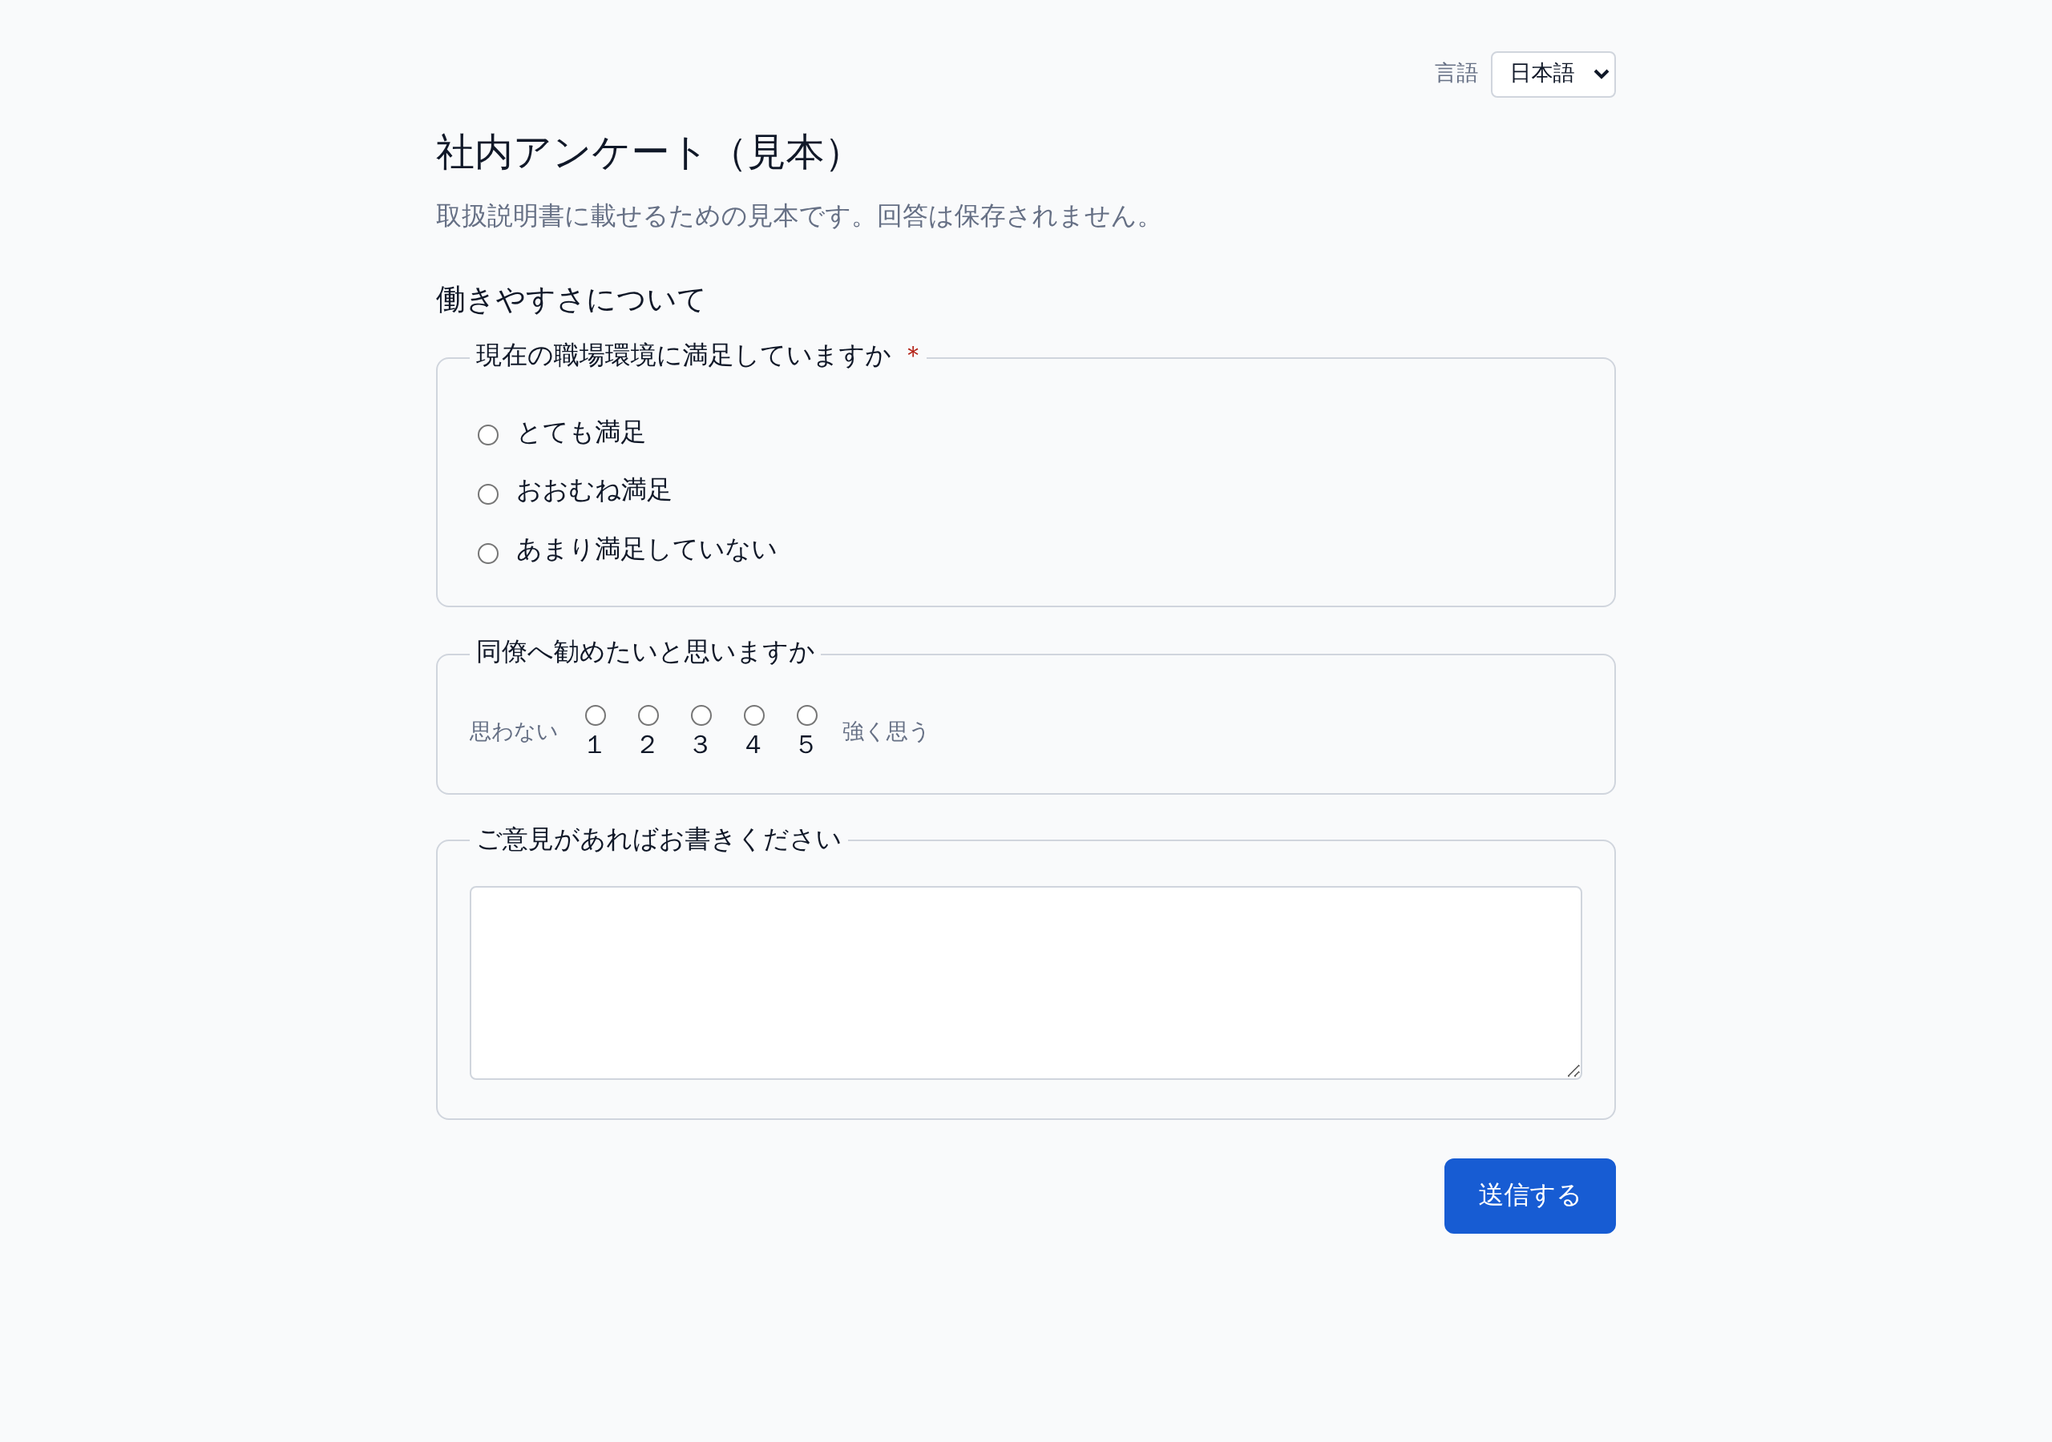
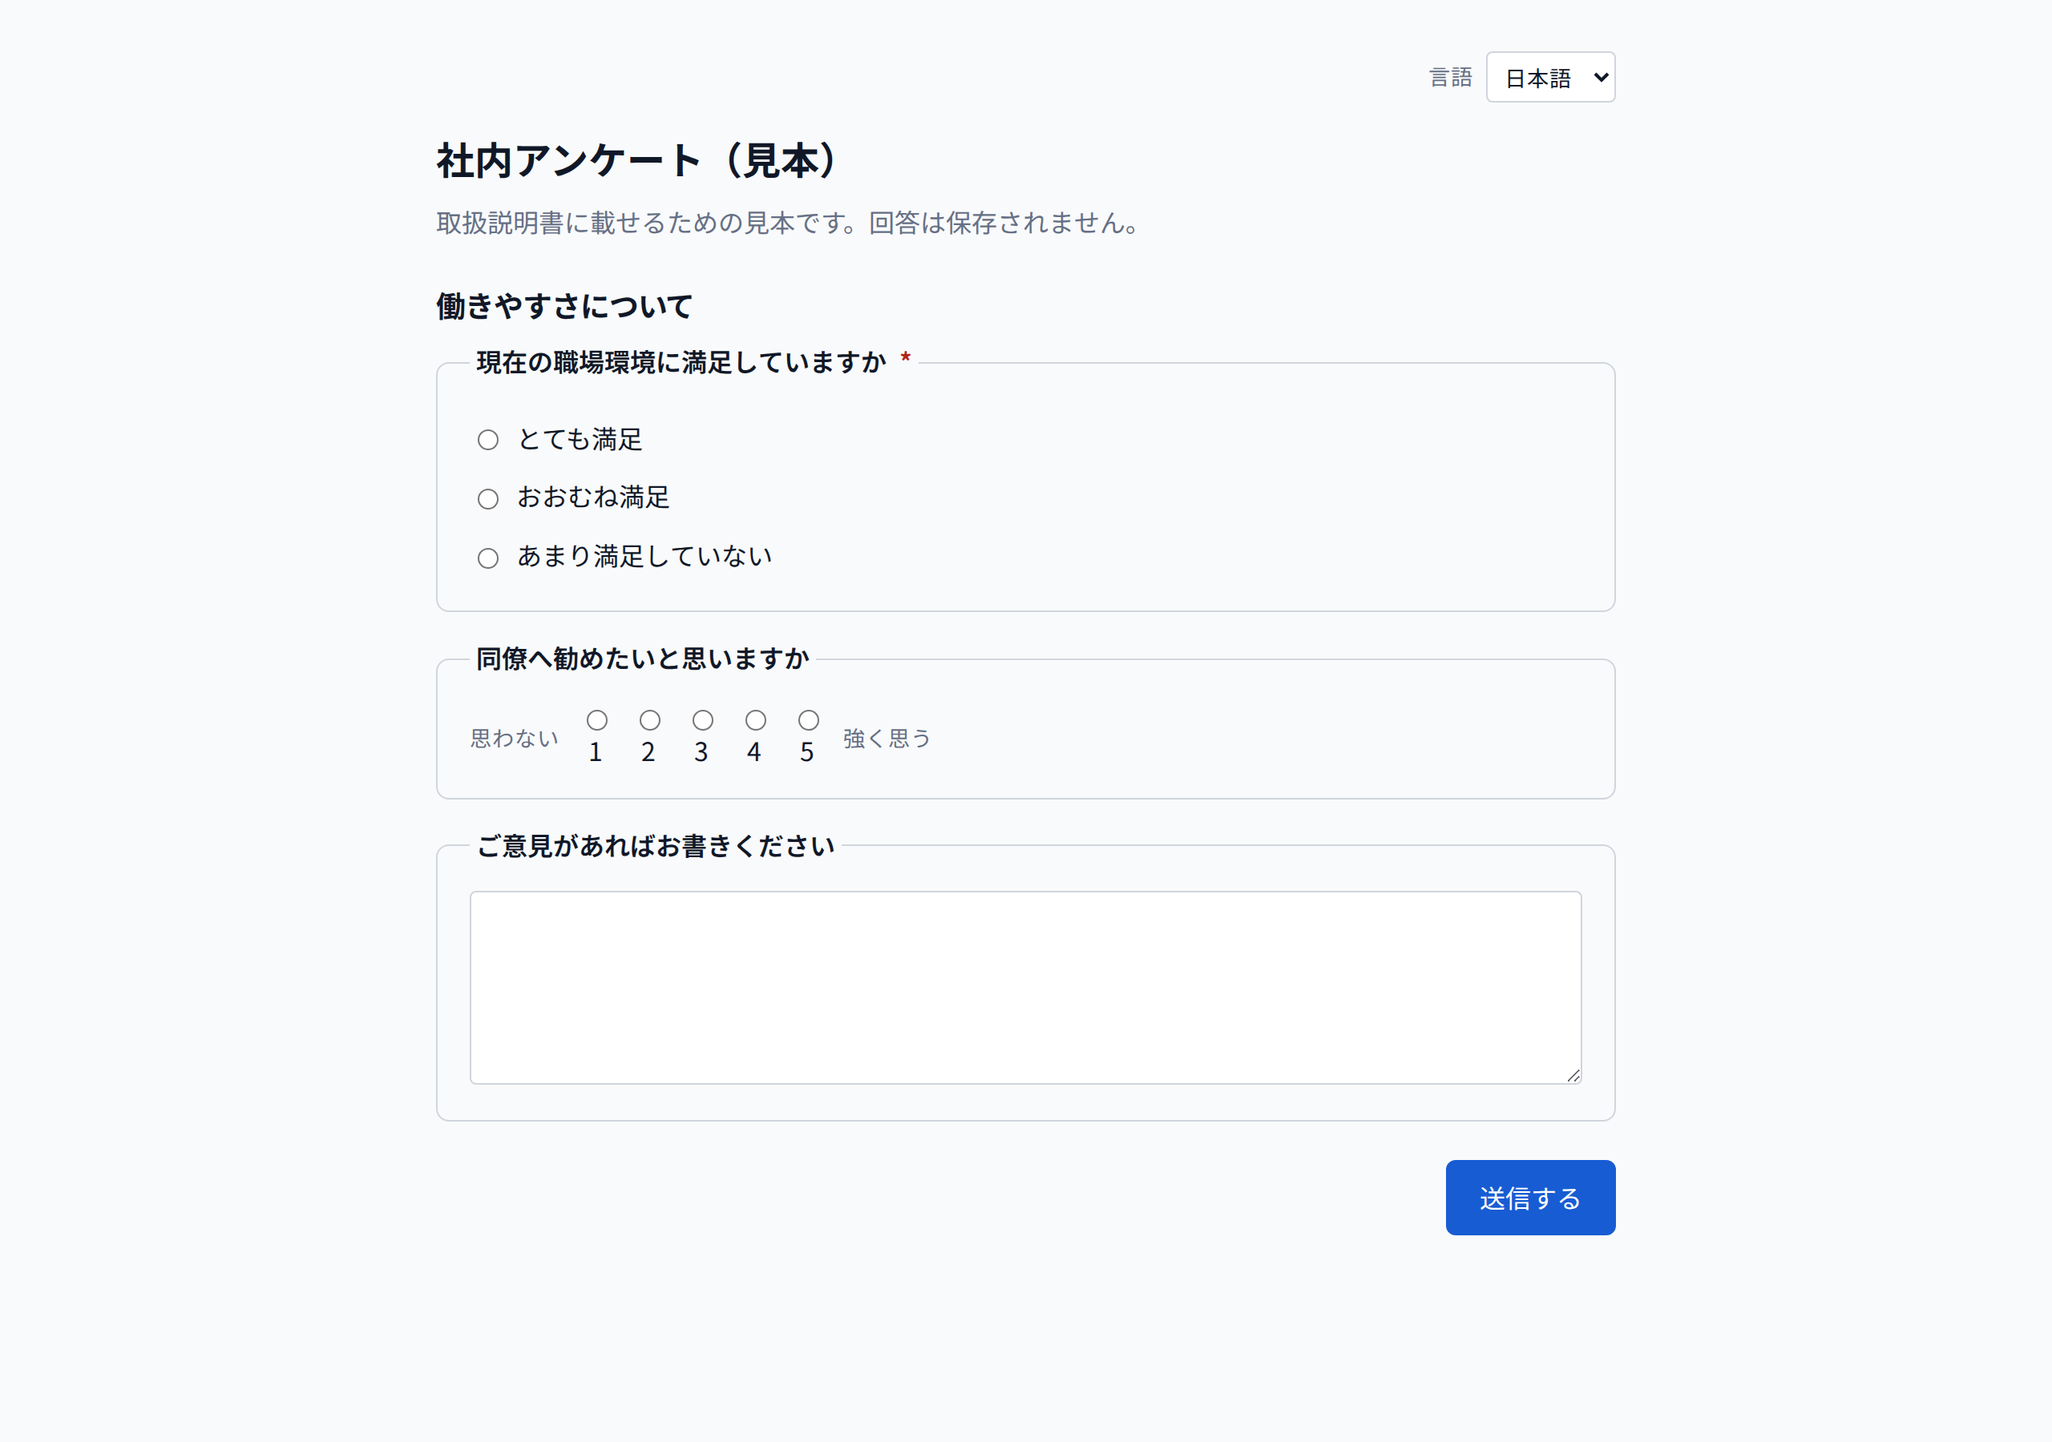
フロントの書体とアイコンを同梱する (#153)
* フロントの書体とアイコンを同梱する

**端末の書体に任せると、見た目が環境ごとに変わる。** 加えて
**インターネットへ出られないイントラでは、外部の Web フォントは使えない。**
そこで自前配信で同梱した。第三者へ要求は出ないので、完全匿名の前提も崩れない。

- ゴシック体: Noto Sans JP Variable
- 等幅: M PLUS 1 Code Variable（**日本語も等幅**）
- アイコン: Material Icons（**管理画面だけに読み込む。** 回答者へ配るものを重くしない）

**可変フォントを選び、unicode-range で分割された woff2 を使う**（Google と同じ方式）。
配置物には全スライス（238 ファイル / 7.9 MB）が入るが、**回答者が受け取るのは
使った範囲だけ**で、ウェイトごとにファイルを持たずに済む。

⚠ **明朝体と丸ゴシック体は同梱していない。** 端末の書体を並べるだけなので、
無ければ近い書体になる。文言と設計文書にもそう書いた。

**許容ライセンスの規約を広げた**（フォントに限って OFL-1.1 を可）。日本語の自由
フォントは実質すべて OFL で、これを外すと同梱できるものが無くなる。調べた結果:

- google/fonts の apache/ にある日本語フォントは Kosugi と Kosugi Maru の 2 つだけで、
  ウェイト 400 のみ・等幅なし
- IPA フォントは IPA Font License 1.0。許容リストの外であるうえ、サブセットは
  「派生プログラム」にあたり改名とソース提供の義務が付く（第 3 条 1 項）
- Noto Sans JP の Reserved Font Name は 'Source' だけなので、サブセットしても
  改名義務は生じない

検証したこと。

- svelte-check 0 エラー、フロントエンドの単体テスト 243 件合格
- vite build が通り、**wwwroot/assets は 8.7 MB**（うち書体 7.9 MB）
- ./scripts/notice-check.sh OK、./scripts/license-check.sh OK
- markdownlint は**触った文書で新しい指摘なし**（非機能設計.md と機能一覧.md の
  MD060 は develop でも同じように出る既存の指摘）
- ⚠ **画面での見え方は未確認。** 検証環境を起動して、回答画面と管理画面の書体、
  等幅の桁揃いを目で見て確かめること

* 同梱する書体をテーマの 4 種類すべてに広げる

**ゴシック体と等幅だけでは、明朝体と丸ゴシック体を選んだときに端末任せのままだった。**
テーマで選べる 4 種類すべてを同梱した。

| テーマの書体 | 同梱するもの |
|---|---|
| ゴシック体 | Noto Sans JP Variable |
| 明朝体 | Noto Serif JP Variable |
| 丸ゴシック体 | M PLUS Rounded 1c（**可変フォントが無いので 400 と 700 だけ**） |
| 等幅 | M PLUS 1 Code Variable |

⚠ **配置物の書体は 17 MB（366 ファイル）になった。** unicode-range 分割なので
[…]

diff --git a/src/VehicleVision.PleasanterTools.Questionnaire.Frontend/src/lib/theme.ts b/src/VehicleVision.PleasanterTools.Questionnaire.Frontend/src/lib/theme.ts
@@ -142,17 +142,21 @@ export function safeColor(value: string | null | undefined): string | null {
  * **利用者が書いた文字列は 1 文字も入らない。** 選ばれた列挙で引くだけ。
  *
  * **外部から Web フォントを読み込まない**（`_documents/非機能設計.md` 1 章）。
- * 回答画面は完全匿名なので、回答者の端末から第三者へ要求を出させない。
- * 並べてあるのは端末が持っている書体だけで、無ければ後ろへ落ちる。
+ * ただし **4 書体すべてをアプリに同梱している**（Issue #152）。
+ * 自前配信なので第三者へ要求は出ず、**インターネットへ出られないイントラでも同じ見た目**になる。
+ *
+ * **後ろに端末の書体も並べたままにする。** 配信に失敗しても文字が出なくならないため。
  */
 const FONT_STACKS: Record<ThemeFont, string | null> = {
   // **既定は指定しない。** `:root` に書いてある今までの指定がそのまま効く
   System: null,
-  Sans: '"Hiragino Sans", "Yu Gothic UI", "Noto Sans JP", "Meiryo", system-ui, sans-serif',
-  Serif: '"Hiragino Mincho ProN", "Yu Mincho", "Noto Serif JP", "MS PMincho", serif',
+  // **同梱した可変フォントを先頭に置く**（無い環境でも端末の書体へ落ちる）
+  Sans: '"Noto Sans JP Variable", "Hiragino Sans", "Yu Gothic UI", "Meiryo", system-ui, sans-serif',
+  Serif: '"Noto Serif JP Variable", "Hiragino Mincho ProN", "Yu Mincho", "MS PMincho", serif',
   Rounded:
-    '"Hiragino Maru Gothic ProN", "M PLUS Rounded 1c", "Quicksand", "Hiragino Sans", sans-serif',
-  Monospace: 'ui-monospace, SFMono-Regular, Consolas, "Noto Sans Mono", monospace',
+    '"M PLUS Rounded 1c", "Hiragino Maru Gothic ProN", "Quicksand", "Hiragino Sans", sans-serif',
+  // **日本語も等幅**にしたいので M PLUS 1 Code を同梱している
+  Monospace: '"M PLUS 1 Code Variable", ui-monospace, SFMono-Regular, Consolas, monospace',
 };
 
 /**

diff --git a/src/VehicleVision.PleasanterTools.Questionnaire.Frontend/src/admin/AdminApp.svelte b/src/VehicleVision.PleasanterTools.Questionnaire.Frontend/src/admin/AdminApp.svelte
@@ -299,12 +299,15 @@
     --error: #b42318;
     --accent: #175cd3;
     --bg: #f9fafb;
+    /* **書体は同梱している**（Issue #152）。等幅は日本語も等幅になる */
+    --font-mono: 'M PLUS 1 Code Variable', ui-monospace, Consolas, monospace;
   }
 
   :global(body) {
     margin: 0;
     background: var(--bg);
-    font-family: system-ui, sans-serif;
+    /* **同梱した書体を使う**（Issue #152）。端末の書体に依存させない */
+    font-family: 'Noto Sans JP Variable', system-ui, sans-serif;
     color: #101828;
     line-height: 1.6;
   }
@@ -317,6 +320,41 @@
     background: var(--accent);
     color: #fff;
     cursor: pointer;
+  }
+
+  /*
+    **アイコンの下地**（Issue #152）。同梱した Material Icons を使う。
+
+      <span class="material-icons" aria-hidden="true">save</span>
+
+    中身は**アイコンの名前**（リガチャで字形へ置き換わる）。
+    **意味は文字でも書くこと。** アイコンだけの釦は読み上げで何も伝わらない。
+    **`aria-hidden="true"` を必ず付ける。** 付けないと 'save' という英単語が読み上げられる。
+
+    **表の中で使うときは `fixed` を足す**（下記）。桁が揃う
+  */
+  :global(.material-icons) {
+    font-family: 'Material Icons';
+    font-weight: normal;
+    font-style: normal;
+    font-size: 1.25em;
+    line-height: 1;
+    letter-spacing: normal;
+    white-space: nowrap;
+    vertical-align: -0.15em;
+    font-feature-settings: 'liga';
+    -webkit-font-smoothing: antialiased;
+  }
+
+  /*
+    **表の中で桁を揃えるための指定。**
+    アイコンの字形は幅が同じでも、**名前が短い字形は詰まって見える**ことがある。
+    箱の幅を決めて中央へ置けば、行ごとにずれない
+  */
+  :global(.material-icons.fixed) {
+    display: inline-block;
+    width: 1.5em;
+    text-align: center;
   }
 
   :global(button:disabled) {

diff --git a/src/VehicleVision.PleasanterTools.Questionnaire.Frontend/src/admin/lib/i18n/messages.ts b/src/VehicleVision.PleasanterTools.Questionnaire.Frontend/src/admin/lib/i18n/messages.ts
@@ -527,7 +527,8 @@ export const ja = {
   'theme.useDefault': '既定に戻す',
   'theme.notSet': '未設定',
   'theme.font': '書体',
-  'theme.fontHint': '回答者の端末にある書体から選びます。外部から書体を読み込まないため、端末に無い場合は近い書体で表示されます。',
+  'theme.fontHint':
+    '4 種類とも書体をアプリに同梱しているため、回答者の端末に無くても同じ見た目になります。',
   'theme.headerImage': 'ヘッダ画像',
   'theme.headerImageHint': 'PNG・JPEG・GIF・WebP の 2 MB 以内。回答画面の題名の上に表示されます。外部の URL は指定できません。',
   'theme.headerImagePreview': '設定中のヘッダ画像',
@@ -1120,7 +1121,7 @@ export const en: Record<MessageKey, string> = {
   'theme.notSet': 'Using the default',
   'theme.font': 'Typeface',
   'theme.fontHint':
-    'Chosen from typefaces the respondent already has. No web font is fetched, so a similar one is used when it is missing.',
+    'All four typefaces ship with the app, so they look the same on every device.',
   'theme.headerImage': 'Header image',
   'theme.headerImageHint':
     'PNG, JPEG, GIF or WebP, up to 2 MB. Shown above the title on the answer screen. External URLs cannot be used.',

diff --git a/src/VehicleVision.PleasanterTools.Questionnaire.Frontend/src/main.ts b/src/VehicleVision.PleasanterTools.Questionnaire.Frontend/src/main.ts
@@ -1,3 +1,16 @@
+// **書体はアプリに同梱している**（Issue #152）。
+//
+// **外部から読み込まない。** 回答者の端末から第三者へ要求を出させないためと、
+// **インターネットへ出られないイントラでも同じ見た目で動かすため。**
+// unicode-range で分割された woff2 なので、受け取るのは使った範囲だけ。
+// テーマで選べる 4 書体すべてを持つ（ゴシック体・明朝体・丸ゴシック体・等幅）
+import '@fontsource-variable/noto-sans-jp';
+import '@fontsource-variable/noto-serif-jp';
+import '@fontsource/m-plus-rounded-1c/japanese-400.css';
+import '@fontsource/m-plus-rounded-1c/japanese-700.css';
+import '@fontsource/m-plus-rounded-1c/latin-400.css';
+import '@fontsource/m-plus-rounded-1c/latin-700.css';
+import '@fontsource-variable/m-plus-1-code';
 import { mount } from 'svelte';
 import App from './App.svelte';
 

diff --git a/src/VehicleVision.PleasanterTools.Questionnaire.Frontend/src/admin/main.ts b/src/VehicleVision.PleasanterTools.Questionnaire.Frontend/src/admin/main.ts
@@ -1,3 +1,12 @@
+// **書体とアイコンはアプリに同梱している**（Issue #152）。
+//
+// **アイコンは管理画面だけに読み込む。** 回答者へ配るものは軽くしておきたい。
+//
+// **明朝体と丸ゴシック体は読まない。** 回答画面のテーマ用なので、
+// プレビューでは端末の書体になる（そこだけ本番と差が出る点に注意）。
+import '@fontsource-variable/noto-sans-jp';
+import '@fontsource-variable/m-plus-1-code';
+import '@fontsource/material-icons';
 import { mount } from 'svelte';
 import AdminApp from './AdminApp.svelte';
 

diff --git a/src/VehicleVision.PleasanterTools.Questionnaire.Frontend/src/App.svelte b/src/VehicleVision.PleasanterTools.Questionnaire.Frontend/src/App.svelte
@@ -708,7 +708,9 @@
        今までは #fff を直に書いていた。既定値は変えていないので見た目は同じ */
     --accent-text: #fff;
     --surface: #fff;
-    --font: system-ui, sans-serif;
+    /* **同梱した書体を既定にする**（Issue #152）。テーマで変えられる */
+    --font: 'Noto Sans JP Variable', system-ui, sans-serif;
+    --font-mono: 'M PLUS 1 Code Variable', ui-monospace, Consolas, monospace;
   }
 
   :global(body) {

diff --git a/src/VehicleVision.PleasanterTools.Questionnaire.Frontend/src/admin/components/QuestionEditor.svelte b/src/VehicleVision.PleasanterTools.Questionnaire.Frontend/src/admin/components/QuestionEditor.svelte
@@ -1194,7 +1194,7 @@
 
   .row-id {
     flex: 1 1 8rem;
-    font-family: ui-monospace, monospace;
+    font-family: var(--font-mono);
     font-size: 0.85rem;
   }
 
@@ -1266,7 +1266,7 @@
 
   .choice-value {
     flex: 1;
-    font-family: ui-monospace, monospace;
+    font-family: var(--font-mono);
     font-size: 0.85rem;
   }
 

diff --git a/src/VehicleVision.PleasanterTools.Questionnaire.Frontend/src/admin/components/EnrollPanel.svelte b/src/VehicleVision.PleasanterTools.Questionnaire.Frontend/src/admin/components/EnrollPanel.svelte
@@ -198,7 +198,7 @@
     display: grid;
     grid-template-columns: 1fr 1fr;
     gap: 0.35rem;
-    font-family: ui-monospace, monospace;
+    font-family: var(--font-mono);
     letter-spacing: 0.05em;
   }
 

diff --git a/src/VehicleVision.PleasanterTools.Questionnaire.Frontend/src/admin/components/AuditLogList.svelte b/src/VehicleVision.PleasanterTools.Questionnaire.Frontend/src/admin/components/AuditLogList.svelte
@@ -312,7 +312,7 @@
   }
 
   .mono {
-    font-family: ui-monospace, monospace;
+    font-family: var(--font-mono);
     font-size: 0.8rem;
   }
 

diff --git a/src/VehicleVision.PleasanterTools.Questionnaire.Frontend/src/admin/components/OutboxStatusPanel.svelte b/src/VehicleVision.PleasanterTools.Questionnaire.Frontend/src/admin/components/OutboxStatusPanel.svelte
@@ -525,7 +525,7 @@
   }
 
   .mono {
-    font-family: ui-monospace, monospace;
+    font-family: var(--font-mono);
     font-size: 0.8rem;
   }
 

diff --git a/_documents/画面設計.md b/_documents/画面設計.md
@@ -70,7 +70,29 @@ stateDiagram-v2
     - **設定しなければ既定の見た目のまま**（`:root` に書いてある値がそのまま効く）
 - **ヘッダ画像は本アプリが配る。** 外部の URL を貼らせない
     - **完全匿名なので、回答者のブラウザから第三者へ要求を出させない**
-      （[`非機能設計.md`](非機能設計.md) 1 章）。**Web フォントも読み込まない**
+      （[`非機能設計.md`](非機能設計.md) 1 章）。**外部の Web フォントも読み込まない**
+    - **書体はアプリに同梱する**（Issue #152）。自前配信なので第三者へ要求は出ず、
+      **インターネットへ出られないイントラでも同じ見た目になる**
+
+        | テーマの書体 | 同梱するもの |
+        |---|---|
+        | ゴシック体 | Noto Sans JP Variable |
+        | 明朝体 | Noto Serif JP Variable |
+        | 丸ゴシック体 | M PLUS Rounded 1c（**可変フォントが無いので 400 と 700 だけ**） |
+        | 等幅 | M PLUS 1 Code Variable（**日本語も等幅**） |
+
+        - **unicode-range で分割された woff2。回答者が受け取るのは使った範囲だけ**
+        - **後ろに端末の書体も並べたままにする。** 配信に失敗しても文字が出なくならないため
+        - ⚠ **管理画面は明朝体と丸ゴシック体を読み込まない。**
+          プレビューではその 2 つだけ端末の書体になる（本番と差が出る）
+        - アイコン（Material Icons）は**管理画面だけに読み込む。**
+          回答者へ配るものを重くしないため
+            - 使い方は `<span class="material-icons" aria-hidden="true">save</span>`。
+              **中身はアイコンの名前**（リガチャで字形になる）
+            - **`aria-hidden="true"` を必ず付ける。** 付けないと `save` という英単語が読み上げられる
+            - **意味は文字でも書く。** アイコンだけの釦は読み上げで何も伝わらない
+            - **表の中では `fixed` を足す**（`class="material-icons fixed"`）。
+              箱の幅を決めて中央へ置くので、行ごとにずれない
     - 受け入れは**添付ファイルと同じ検査**（拡張子・先頭バイト・大きさ）。
       **SVG は許可しない**（中に script を書けるうえ、先頭バイトで見分けられない）
     - 出すのは**公開中の版が指している画像だけ。** 下書きで差し替えた画像は出ない
